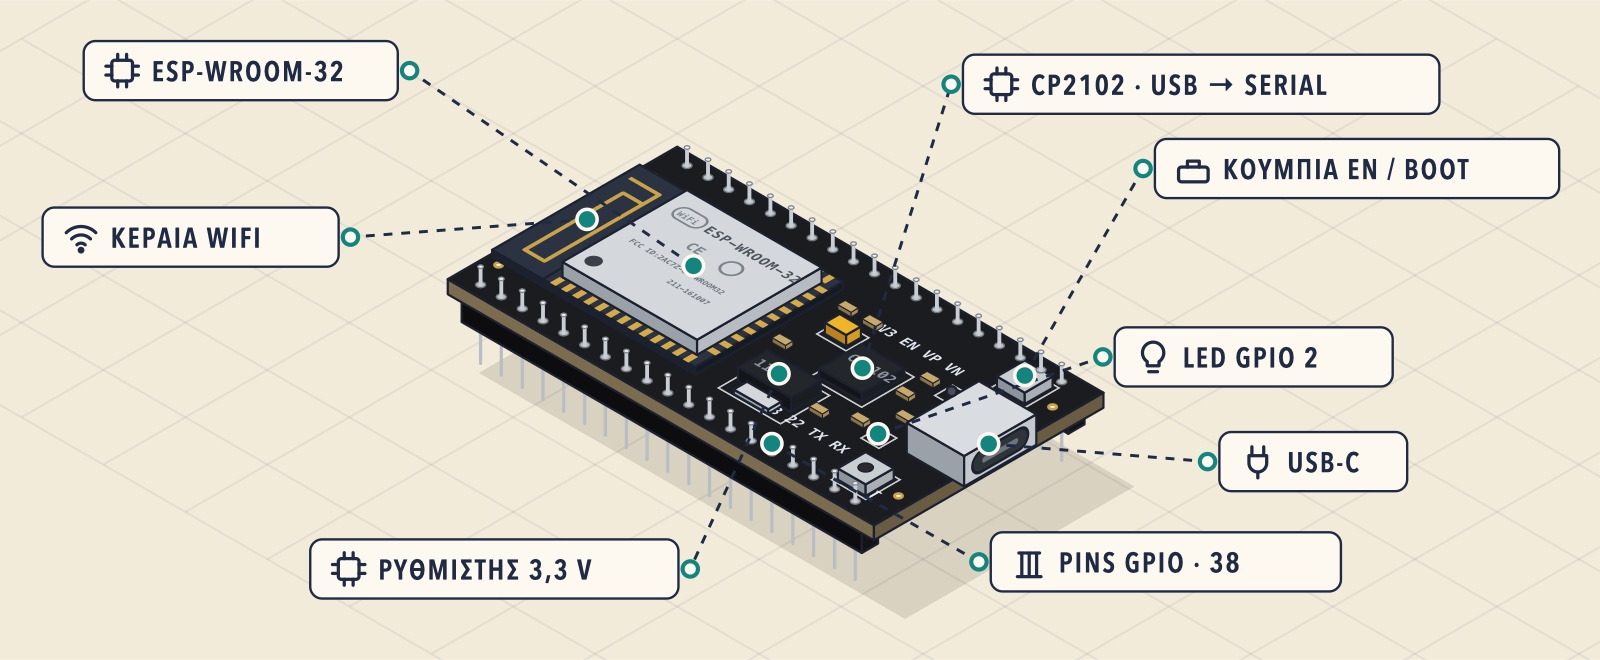
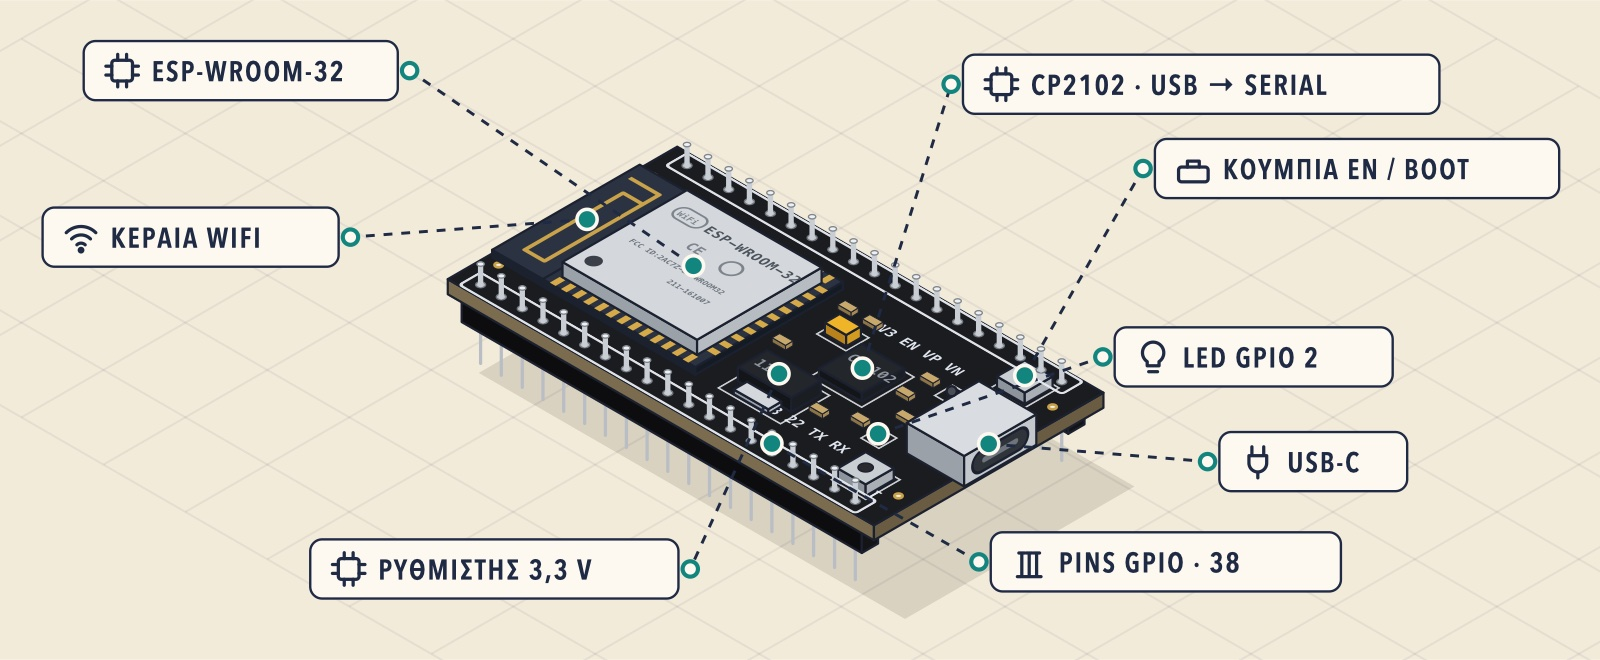
Raspberry Pi 5 και ESP32 όπως στις εικονογραφήσεις
- Pi 5: θύρες μπροστά (USB3 μπλε, Ethernet), ψηλά pins GPIO, BCM2712, RP1, FPC, micro-HDMI, USB-C
- κείμενα πλακέτας διαβάζονται σωστά, ετικέτες χωρίς επικαλύψεις
- ESP32: μεγαλύτερες ακίδες και λευκό περίγραμμα γύρω από τις σειρές pins
- νέες εικόνες README

diff --git a/js/scene.js b/js/scene.js
@@ -50,7 +50,7 @@
     question: '<circle cx="6" cy="6" r="5"/><path d="M4.4 4.6a1.7 1.7 0 1 1 2.4 1.6c-.6.3-.8.6-.8 1.2M6 9h0.1"/>'
   };
   const PART_ICON = {
-    esp32: 'chip', 'esp-module': 'chip', 'esp-uart': 'chip', 'esp-reg': 'chip', pi: 'chip', 'pi-cpu': 'chip', 'pi-ram': 'chip', 'mini-esp': 'chip',
+    esp32: 'chip', 'esp-module': 'chip', 'esp-uart': 'chip', 'esp-reg': 'chip', pi: 'chip', 'pi-cpu': 'chip', 'pi-ram': 'chip', 'pi-rp1': 'chip', 'mini-esp': 'chip', 'pi-hdmi': 'screen', 'pi-fpc': 'pins',
     'esp-pins': 'pins', 'pi-gpio': 'pins', 'esp-usb': 'plug', 'pi-power': 'plug', 'pi-ports': 'plug', 'esp-antenna': 'wifi', router: 'wifi',
     'esp-buttons': 'button', button: 'button', led: 'bulb', 'esp-led': 'bulb', pir: 'eye', ultrasonic: 'eye', 'us-pins': 'pins', sensor: 'thermo',
     tablet: 'screen', laptop: 'screen', car: 'car', traffic: 'traffic', breadboard: 'grid', 'rpi-broker': 'server', 'unknown-device': 'question'
@@ -183,12 +183,15 @@
     s += `<circle cx="${d2[0].toFixed(1)}" cy="${d2[1].toFixed(1)}" r="1.7" class="smd d2" id="sc-d2"/></g>`;
     // pins που βγαίνουν και από πάνω: κόλληση στο PCB, κοντή ακίδα και στρογγυλεμένη κορυφή
     s += '<g data-part="esp-pins">';
+    // λευκό περίγραμμα silkscreen γύρω από κάθε σειρά pins, όπως στην πλακέτα
+    s += `<g transform="${planeMatrix(T)}" class="silk-box rows">`
+      + [1.4, 26.6].map(vv => `<rect x="${(u + PIN_U(0) - 1.3).toFixed(2)}" y="${(v + vv - 1.3).toFixed(2)}" width="${(PIN_U(18) - PIN_U(0) + 2.6).toFixed(2)}" height="2.6" rx="0.4"/>`).join('') + '</g>';
     for (const vv of [1.4, 26.6]) {
       for (let i = 0; i < 19; i++) {
         const p = P(u + PIN_U(i), v + vv, T);
-        const q = P(u + PIN_U(i), v + vv, T + 1.9);
+        const q = P(u + PIN_U(i), v + vv, T + 2.2);
         s += `<ellipse cx="${p[0].toFixed(1)}" cy="${p[1].toFixed(1)}" rx="1.7" ry="1" class="solder"/>`
-          + `<path d="M${pt(p)} L${pt(q)}" class="pin-stub"/><ellipse cx="${q[0].toFixed(1)}" cy="${q[1].toFixed(1)}" rx="0.95" ry="0.6" class="pin-tip"/>`;
+          + `<path d="M${pt(p)} L${pt(q)}" class="pin-stub"/><ellipse cx="${q[0].toFixed(1)}" cy="${q[1].toFixed(1)}" rx="1.25" ry="0.75" class="pin-tip"/>`;
       }
     }
     s += '</g>';
@@ -297,44 +300,92 @@
   // Raspberry Pi ως κύρια πλακέτα (μαθήματα Python): PCB 56×34, header 40 pins στη μπροστινή πλευρά.
   // Η σειρά με τα μονά pins ακολουθεί το πραγματικό Pi: pin 7 = GPIO 4, 9 = GND, 11 = GPIO 17, 13 = GPIO 27.
   const PI_ODD = ['3V3', 'GPIO2', 'GPIO3', 'GPIO4', 'GND', 'GPIO17', 'GPIO27', 'GPIO22', '3V3b', 'GPIO10', 'GPIO9', 'GPIO11', 'GNDb', 'ID_SD', 'GPIO5', 'GPIO6', 'GPIO13', 'GPIO19', 'GPIO26', 'GNDc'];
-  const PI_PIN_U = i => 6 + i * 2.4;
+  // Raspberry Pi 5 (όπως το πραγματικό). Η μακριά πλευρά (L, 58) πάει προς τον θεατή (+v), η στενή (W, 36) κατά +u:
+  // έτσι φαίνονται τα ανοίγματα των USB/Ethernet (μπροστά) και των HDMI/USB-C (δεξιά). Header 2×20 στην πίσω μακριά πλευρά.
+  // Η σειρά με τα μονά pins (pin 1, 3, 5…) είναι η εσωτερική: pin 7 = GPIO 4, 9 = GND, 11 = GPIO 17, 13 = GPIO 27.
+  const PI_T = 1.6;            // πάνω επιφάνεια του PCB
+  const PI_PIN_L = i => 4 + i * 2.32;
+  const PI_PIN_TOP = PI_T + 2.4 + 5.2;
   function piPinUV(name) {
     const i = PI_ODD.indexOf(name);
-    return { u: ESP.u + PI_PIN_U(i), v: ESP.v + 30.6, h: 4.2 };
+    return { u: ESP.u + 4.4, v: ESP.v + PI_PIN_L(i), h: PI_PIN_TOP };
   }
   function piPin(name) {
-    const i = PI_ODD.indexOf(name);
-    return P(ESP.u + PI_PIN_U(i), ESP.v + 31.6, 4.6);
+    const q = piPinUV(name);
+    return P(q.u, q.v, q.h);
+  }
+  // Ψηλή ακίδα header: σκούρο περίγραμμα, ασημένιο σώμα, μικρή κορυφή.
+  function tallPin(u, v, h0, h1) {
+    const a = P(u, v, h0);
+    const b = P(u, v, h1);
+    return `<path d="M${pt(a)} L${pt(b)}" class="pin-ol"/><path d="M${pt(a)} L${pt(b)}" class="pin-body"/><ellipse cx="${b[0].toFixed(1)}" cy="${b[1].toFixed(1)}" rx="0.75" ry="0.45" class="pin-tip"/>`;
+  }
+  function raspberryLogo(cx, cy) {
+    const berries = [[0, 0], [1.6, 0.4], [-1.6, 0.4], [0.8, 1.7], [-0.8, 1.7], [0, 3.1], [1.9, 2.1], [-1.9, 2.1]];
+    return berries.map(([x, y]) => `<circle cx="${cx + x}" cy="${cy + y}" r="0.85" class="pi-logo"/>`).join('')
+      + `<path d="M${cx - 1.6},${cy - 1.6} q1.6,-1.2 1.6,0.6 q0,-1.8 1.6,-0.6" class="pi-logo-leaf"/>`;
   }
   function piHost() {
     const { u, v } = ESP;
+    const T = PI_T;
+    // τοπικές συντεταγμένες: L κατά μήκος (→ v), W κατά πλάτος (→ u)
+    const B = (L, W, h, dL, dW, dh, cls, id) => box(u + W, v + L, h, dW, dL, dh, cls, id);
+    const Q = (L, W, h) => P(u + W, v + L, h);
+    // κείμενο/σχέδια πάνω στο PCB: διαβάζεται από μπροστά προς τα πίσω (x αυξάνει προς −L), όπως στο πραγματικό
+    const onTop = h => `${planeMatrix(h)} matrix(0,-1,1,0,0,0)`;
+    const tx = L => -(v + L);
+    const ty = W => u + W;
     let s = '<g id="sc-esp" class="sc-esp sc-pihost" data-part="pi">';
-    s += box(u, v, 0, 56, 34, 1.6, 'pi-pcb');
-    s += `<g transform="${planeMatrix(1.6)}"><text x="${u + 20}" y="${v + 25}" class="silk2">Raspberry Pi 5</text></g>`;
-    // θύρες USB / Ethernet στην αριστερή στενή πλευρά
-    for (const [hu, hv] of [[3.5, 3.5], [3.5, 30.5], [52.5, 3.5], [52.5, 30.5]]) {
-      const c = P(u + hu, v + hv, 1.6);
-      s += `<ellipse cx="${c[0].toFixed(1)}" cy="${c[1].toFixed(1)}" rx="2" ry="1.2" class="hole"/>`;
+    s += B(0, 0, 0, 58, 36, 1.6, 'pi-pcb');
+    // χρυσές τρύπες στερέωσης, λογότυπο και silkscreen
+    for (const [hl, hw] of [[2.8, 2.8], [2.8, 33.2], [42.8, 2.8], [42.8, 33.2]]) {
+      const c = Q(hl, hw, T);
+      s += `<ellipse cx="${c[0].toFixed(1)}" cy="${c[1].toFixed(1)}" rx="2.4" ry="1.4" class="pi-hole"/><ellipse cx="${c[0].toFixed(1)}" cy="${c[1].toFixed(1)}" rx="1.2" ry="0.7" class="pi-hole-in"/>`;
     }
-    s += `<g data-part="pi-ports">${box(u - 2, v + 2, 1.6, 9, 9, 6, 'port')}${box(u - 2, v + 12.5, 1.6, 9, 8, 6, 'port')}${box(u - 2, v + 22, 1.6, 9, 9, 7, 'eth')}</g>`;
-    s += `<g data-part="pi-cpu">${box(u + 22, v + 6, 1.6, 12, 12, 1.4, 'chip')}<g transform="${planeMatrix(3)}"><text x="${u + 23.5}" y="${v + 12.6}" class="chip-t">BCM2712</text></g></g>`;
-    s += `<g data-part="pi-ram">${box(u + 37, v + 7, 1.6, 8, 10, 1, 'chip')}</g>`;
-    s += `<g data-part="pi-power">${box(u + 50, v + 12, 1.6, 6, 5, 2, 'usb')}</g>`;
-    for (const [cu, cv] of [[14, 8], [14, 11], [17, 20], [47, 22], [34, 22]]) s += box(u + cu, v + cv, 1.6, 1.6, 0.9, 0.5, 'smd-c');
-    // header 2×20
+    s += `<g transform="${onTop(T)}">${raspberryLogo(tx(11), ty(26))}`
+      + `<text x="${tx(33)}" y="${ty(9.6)}" class="pi-silk">Raspberry Pi</text><rect x="${tx(19.4)}" y="${ty(9.6) - 2}" width="2.2" height="2.6" rx="0.3" class="pi-silk-box"/><text x="${tx(19.4) + 0.55}" y="${ty(9.6)}" class="pi-silk">5</text>`
+      + `<text x="${tx(34.5)}" y="${ty(30.6)}" class="pi-silk big">HDMI</text></g>`;
+    // header 2×20 με ψηλές ακίδες (πίσω μακριά πλευρά)
     s += '<g data-part="pi-gpio">';
-    s += box(u + 4.6, v + 29.6, 1.6, 48.4, 4, 2.6, 'pinhdr');
-    for (let i = 0; i < 20; i++) {
-      for (const vv of [30.6, 32.6]) {
-        const p = P(u + PI_PIN_U(i), v + vv, 4.4);
-        s += `<ellipse cx="${p[0].toFixed(1)}" cy="${p[1].toFixed(1)}" rx="1.4" ry="0.8" class="pin-pad"/>`;
-      }
+    s += B(2.8, 1.2, T, 46.4, 4.4, 2.4, 'pinhdr');
+    for (const ww of [2.4, 4.4]) for (let i = 0; i < 20; i++) s += tallPin(u + ww, v + PI_PIN_L(i), T + 2.4, PI_PIN_TOP);
+    s += '</g>';
+    // ανεμιστήρας (λευκό βύσμα) και PoE (2×2)
+    s += B(5, 7.6, T, 3.6, 2.4, 2.4, 'conn-white');
+    s += B(46, 8, T, 3.6, 3.6, 1.4, 'pinhdr');
+    for (const [pl, pw] of [[46.9, 8.9], [48.7, 8.9], [46.9, 10.7], [48.7, 10.7]]) s += tallPin(u + pw, v + pl, T + 1.4, T + 5);
+    // επεξεργαστής BCM2712 (μεταλλικό κάλυμμα), RAM, RP1
+    s += `<g data-part="pi-ram">${B(10.5, 13, T, 9.6, 6.6, 1.2, 'chip')}</g>`;
+    s += `<g data-part="pi-cpu">${B(21, 13, T, 11, 11, 1.8, 'cpu-lid')}<g transform="${onTop(T + 1.8)}"><text x="${tx(30.6)}" y="${ty(16.4)}" class="chip-t dark">BCM2712</text><text x="${tx(30.6)}" y="${ty(18.8)}" class="chip-t dark">ARM · 2.4 GHz</text></g></g>`;
+    s += `<g data-part="pi-rp1">${B(34, 9, T, 8, 8, 1.2, 'chip')}<g transform="${onTop(T + 1.2)}">${raspberryLogo(tx(38), ty(12.6))}</g></g>`;
+    s += B(43.5, 15, T, 4, 4, 0.8, 'chip');
+    // συνδέσεις FPC (κάμερα / οθόνη)
+    s += `<g data-part="pi-fpc">${B(35, 20.5, T, 10, 2.6, 1.6, 'fpc')}${B(35, 25, T, 10, 2.6, 1.6, 'fpc')}`;
+    s += `<g transform="${onTop(T + 1.6)}"><rect x="${tx(44.4)}" y="${ty(21.2)}" width="8.8" height="1.2" class="fpc-gold"/><rect x="${tx(44.4)}" y="${ty(25.7)}" width="8.8" height="1.2" class="fpc-gold"/></g></g>`;
+    // δεξιά μακριά πλευρά: 2 micro-HDMI και USB-C τροφοδοσίας (τα ανοίγματα βλέπουν δεξιά)
+    s += '<g data-part="pi-hdmi">';
+    for (const hl of [21, 28.5]) {
+      s += B(hl, 31.4, T, 5.4, 5.2, 2.6, 'usb');
+      s += `<g transform="${planeVH(u + 36.6)}"><rect x="${v + hl + 0.8}" y="${-(T + 2.1)}" width="3.8" height="1.5" rx="0.4" class="usbc-slot"/></g>`;
     }
     s += '</g>';
-    const pwr = P(u + 50, v + 4, 2.2);
-    const act = P(u + 50, v + 8, 2.2);
-    s += `<circle cx="${pwr[0].toFixed(1)}" cy="${pwr[1].toFixed(1)}" r="2.2" class="smd pwr" id="sc-pwr"/>`;
-    s += `<circle cx="${act[0].toFixed(1)}" cy="${act[1].toFixed(1)}" r="2.2" class="smd act" id="sc-d2"/>`;
+    s += `<g data-part="pi-power">${B(6.5, 31, T, 7, 5.8, 2.8, 'usb')}<g transform="${planeVH(u + 36.8)}"><rect x="${v + 7.4}" y="${-(T + 2.3)}" width="5.2" height="1.8" rx="0.9" class="usbc-slot"/></g></g>`;
+    // μπροστινή στενή πλευρά: δύο διπλά USB-A (τα μπλε είναι USB 3) και Ethernet (τα ανοίγματα βλέπουν μπροστά)
+    s += '<g data-part="pi-ports">';
+    s += B(49.6, 1.4, T, 10.4, 8.4, 8.4, 'usb-a') + B(49.6, 11, T, 10.4, 8.4, 8.4, 'usb-a usb3');
+    s += B(49, 20.6, T, 11.2, 14, 7.6, 'eth');
+    for (const [pw, h] of [[1.4, 2.6], [1.4, 6.4], [11, 2.6], [11, 6.4]]) {
+      s += `<g transform="${planeUH(v + 60)}"><rect x="${u + pw + 1.4}" y="${-(T + h + 1.6)}" width="5.6" height="1.5" rx="0.2" class="${pw > 5 ? 'usb3-tongue' : 'usb-tongue'}"/></g>`;
+    }
+    s += `<g transform="${planeUH(v + 60.2)}"><rect x="${u + 22.6}" y="${-(T + 6.4)}" width="10" height="5.4" rx="0.4" class="eth-mouth"/></g>`;
+    s += '</g>';
+    // μικρά SMD
+    for (const [cl, cw] of [[6.4, 14], [7.2, 17], [20, 26.5], [23, 26.5], [18.6, 10], [21, 10], [22, 46.5], [44, 27.5], [28, 9]]) if (cw < 30) s += B(cl, cw, T, 0.9, 1.6, 0.5, 'smd-c');
+    // LED τροφοδοσίας και δραστηριότητας
+    const pwr = Q(4, 32, T + 0.3);
+    const act = Q(4, 29.6, T + 0.3);
+    s += `<circle cx="${pwr[0].toFixed(1)}" cy="${pwr[1].toFixed(1)}" r="1.5" class="smd pwr" id="sc-pwr"/>`;
+    s += `<circle cx="${act[0].toFixed(1)}" cy="${act[1].toFixed(1)}" r="1.5" class="smd act" id="sc-d2"/>`;
     s += '</g>';
     return s;
   }
@@ -494,7 +545,7 @@
     let back = '';
     let mid = piHost();
     let front = '';
-    const labels = [callout(P(28, 16, 4), -96, -58, net ? 'RASPBERRY PI · BROKER + PYTHON' : 'RASPBERRY PI', null, 'pi'), callout(piPin('GPIO22'), -40, 40, 'GPIO HEADER · 40 PINS', null, 'pi-gpio')];
+    const labels = [callout(P(28, 16, 4), -20, 104, net ? 'RASPBERRY PI · BROKER + PYTHON' : 'RASPBERRY PI', null, 'pi'), callout(piPin('GPIO26'), -10, -96, 'GPIO HEADER · 40 PINS', null, 'pi-gpio')];
     const wires = [];
     mid += breadboard();
     const LED_AT = [72, 15];
@@ -504,7 +555,7 @@
       front += led(LED_AT[0], LED_AT[1]);
       wires.push(wire(piPinUV('GPIO17'), { u: LED_AT[0] - 2.54, v: LED_AT[1] + 2.54, h: 2.4 }, 'w-led', 46, 'sc-w-led'));
       wires.push(wire(piPinUV('GND'), { u: LED_AT[0] + 2.54, v: BB.v + BB.dv - 2, h: 2.4 }, 'w-gnd', 30));
-      labels.push(callout(P(LED_AT[0], LED_AT[1], 14), -40, -60, 'LED · GPIO 17', null, 'led'));
+      labels.push(callout(P(LED_AT[0], LED_AT[1], 14), -30, -96, 'LED · GPIO 17', null, 'led'));
     }
     if (hw.includes('button')) {
       front += button(BTN_AT[0], BTN_AT[1]);

diff --git a/js/parts.js b/js/parts.js
@@ -171,8 +171,11 @@
     },
     'pi-cpu': { kind: 'Κομμάτι του Pi', title: 'Επεξεργαστής (SoC)', what: 'Το κεντρικό τσιπ: τέσσερις πυρήνες ARM και κάρτα γραφικών σε ένα.', does: 'Τρέχει το Linux και όλα τα προγράμματα, Python, Mosquitto και Flask, ταυτόχρονα.', pins: 'Ζεσταίνεται: σε κουτί καλό είναι να έχει ψήκτρα ή ανεμιστήρα.', game: 'Εδώ «τρέχει» ο κώδικας Python του Μέρους Β.' },
     'pi-ram': { kind: 'Κομμάτι του Pi', title: 'Μνήμη RAM', what: 'Η γρήγορη μνήμη εργασίας (2–8 GB).', does: 'Κρατά τα προγράμματα και τα δεδομένα όσο τρέχουν. Σβήνει όταν κλείσει το ρεύμα.', pins: '—', game: 'Γι’ αυτό τα δεδομένα που θέλουμε να μείνουν γράφονται σε βάση SQLite, με commit (Κεφάλαιο 21).' },
-    'pi-ports': { kind: 'Κομμάτι του Pi', title: 'Θύρες USB και Ethernet', what: 'Υποδοχές για πληκτρολόγιο, δίσκους και καλώδιο δικτύου.', does: 'Το Ethernet δίνει πιο σταθερή σύνδεση από το WiFi, γι’ αυτό ταιριάζει σε hub που τρέχει συνέχεια.', pins: '—', game: 'Στο παιχνίδι το Pi είναι ενσύρματο στο 192.168.1.10.' },
+    'pi-ports': { kind: 'Κομμάτι του Pi', title: 'Θύρες USB και Ethernet', what: 'Δύο διπλά USB-A (τα μπλε είναι USB 3, πιο γρήγορα) και μία θύρα Ethernet για καλώδιο δικτύου.', does: 'Το Ethernet δίνει πιο σταθερή σύνδεση από το WiFi, γι’ αυτό ταιριάζει σε hub που τρέχει συνέχεια.', pins: '—', game: 'Στο παιχνίδι το Pi είναι ενσύρματο στο 192.168.1.10.' },
     'pi-power': { kind: 'Κομμάτι του Pi', title: 'Τροφοδοσία USB-C', what: 'Η υποδοχή ρεύματος.', does: 'Το Pi 5 θέλει τροφοδοτικό 5 V / 5 A. Με αδύναμο τροφοδοτικό κάνει απρόβλεπτες επανεκκινήσεις.', pins: '—', game: 'Για σταθερό hub: καλό τροφοδοτικό και αντίγραφα ασφαλείας (Κεφάλαιο 23).' },
+    'pi-rp1': { kind: 'Κομμάτι του Pi', title: 'Τσιπ RP1 (είσοδοι/έξοδοι)', what: 'Το μικρότερο μαύρο τσιπ με το λογότυπο του Raspberry Pi.', does: 'Στο Pi 5 «οδηγεί» τα GPIO, τα USB, το Ethernet και τις κάμερες, και αφήνει τον επεξεργαστή ελεύθερο.', pins: 'Συνδέεται με τον επεξεργαστή με γρήγορη σύνδεση PCIe.', game: 'Όταν γράφεις LED(17).on(), το σήμα βγαίνει μέσω αυτού του τσιπ.' },
+    'pi-hdmi': { kind: 'Κομμάτι του Pi', title: 'Δύο θύρες micro-HDMI', what: 'Οι δύο μικρές θύρες οθόνης στη μακριά πλευρά.', does: 'Το Pi 5 βγάζει εικόνα σε δύο οθόνες, έως 4K.', pins: 'Θέλουν καλώδιο micro-HDMI → HDMI.', game: 'Ένα hub δεν χρειάζεται οθόνη: το διαχειριζόμαστε από μακριά με SSH (Κεφάλαιο 23).' },
+    'pi-fpc': { kind: 'Κομμάτι του Pi', title: 'Συνδέσεις κάμερας / οθόνης (FPC)', what: 'Οι δύο μαύρες λωρίδες με τις χρυσές επαφές.', does: 'Εκεί κουμπώνουν τα πλακέ καλώδια για κάμερα ή οθόνη αφής.', pins: 'Ανοίγεις το μικρό κλιπ, βάζεις το πλακέ καλώδιο, κλείνεις.', game: 'Δεν τις χρησιμοποιούμε στο παιχνίδι, αλλά ένα «έξυπνο κουδούνι» θα είχε κάμερα εδώ.' },
     'mini-esp': {
       kind: 'Συσκευή του σπιτιού', title: 'ESP32 του σπιτιού',
       what: 'Ένα άλλο ESP32 κάπου στο σπίτι, π.χ. ένα θερμόμετρο στο σαλόνι.',

diff --git a/css/scene.css b/css/scene.css
@@ -231,7 +231,8 @@
 
 /* ---------- ESP32 όπως στην εικόνα αναφοράς */
 .esp-black .f-l { fill: #7b6c4f; } .esp-black .f-r { fill: #6a5c42; }
-.pin-stub { stroke: #c9ced4; stroke-width: 1.3; stroke-linecap: round; }
+.pin-stub { stroke: #c9ced4; stroke-width: 1.8; stroke-linecap: round; }
+.silk-box.rows rect { stroke-width: 0.3; opacity: 0.95; }
 .pin-tip { fill: #eef1f4; stroke: #7f868d; stroke-width: 0.45; }
 .solder { fill: #b9bec4; stroke: #6f767d; stroke-width: 0.45; }
 .silk-box rect { fill: none; stroke: #e9edf2; stroke-width: 0.22; opacity: 0.85; }
@@ -246,3 +247,24 @@
 .usbc-tongue { fill: #6d747c; }
 .shield-t.sm { font-size: 1.45px; }
 .shield-s.sm { font-size: 0.82px; }
+
+/* ---------- Raspberry Pi 5 όπως στην εικόνα αναφοράς */
+.pi-pcb .f-t { fill: #2f9a55; } .pi-pcb .f-l { fill: #1f6e3b; } .pi-pcb .f-r { fill: #268448; }
+.pi-hole { fill: #d9b24c; stroke: #8a6d22; stroke-width: 0.5; }
+.pi-hole-in { fill: var(--paper, #f7f0e1); stroke: #8a6d22; stroke-width: 0.4; }
+.pi-silk { font: 700 1.9px var(--font-label); fill: #eaf7ee; letter-spacing: 0.05em; }
+.pi-silk.big { font-size: 2.6px; letter-spacing: 0.12em; }
+.pi-silk-box { fill: none; stroke: #eaf7ee; stroke-width: 0.25; }
+.pi-logo { fill: none; stroke: #eaf7ee; stroke-width: 0.35; }
+.pi-logo-leaf { fill: none; stroke: #eaf7ee; stroke-width: 0.35; stroke-linecap: round; }
+.pin-ol { stroke: var(--ink-line); stroke-width: 1.5; stroke-linecap: round; }
+.pin-body { stroke: #cfd4d9; stroke-width: 0.85; stroke-linecap: round; }
+.conn-white .f-t { fill: #f4f2ea; } .conn-white .f-l { fill: #cfcabd; } .conn-white .f-r { fill: #e2ded2; }
+.cpu-lid .f-t { fill: #d7dbdf; } .cpu-lid .f-l { fill: #9aa1a8; } .cpu-lid .f-r { fill: #b8bec4; }
+.chip-t.dark { fill: #5f666e; font-size: 1.3px; }
+.fpc .f-t { fill: #23262b; } .fpc .f-l { fill: #131518; } .fpc .f-r { fill: #1a1d21; }
+.fpc-gold { fill: #d6aa48; }
+.usb-a .f-t { fill: #d9dde1; } .usb-a .f-l { fill: #b4bac0; } .usb-a .f-r { fill: #c7ccd1; }
+.usb-tongue { fill: #2b2f36; } .usb3-tongue { fill: #2f6fd6; }
+.eth .f-t { fill: #dfe2e6; } .eth .f-l { fill: #b3b9bf; } .eth .f-r { fill: #c8cdd2; }
+.eth-mouth { fill: #2f343b; stroke: var(--ink-line); stroke-width: 0.3; }
